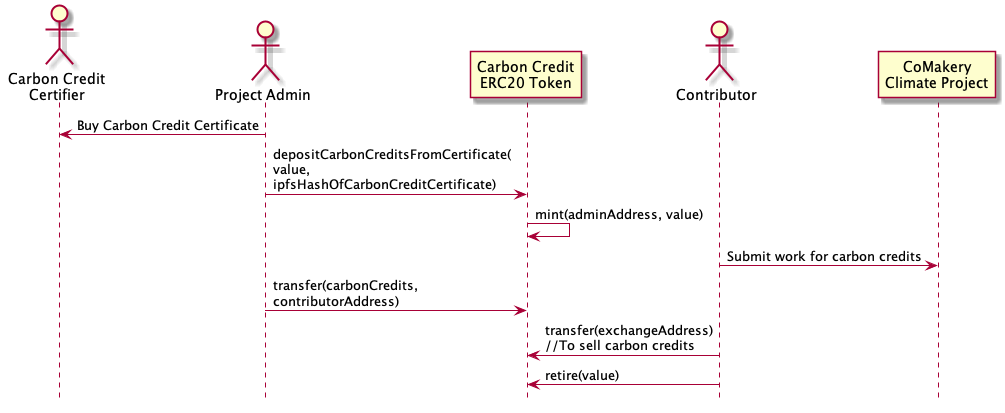
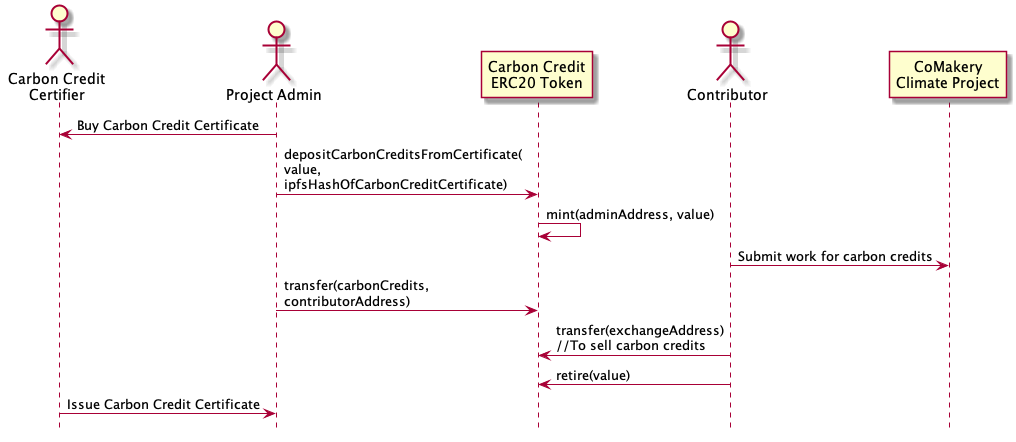
update diagram

diff --git a/README.md b/README.md
@@ -6,7 +6,7 @@ A an ERC20 token backed by carbon credits - allows certified issuance, transfer 
 
 ## How It Works
 
-![](docs/carbon-credits-diagrams/carbon-credits.png)
+![](docs/carbon-credits-diagrams/carbon-credits2.png)
 
 1. The project admin purchases carbon credits from a certifier such as [Gold Standard](https://www.goldstandard.org/)
 1. The project admin upload the certificate purchase details to IPFS and gets the file address called the ipfs Hash
@@ -17,4 +17,4 @@ A an ERC20 token backed by carbon credits - allows certified issuance, transfer 
 1. The contributor transfers some of their tokens to an exchange to sell
 1. The contributor retires the remaining carbon credit tokens to offset some of their own carbon footprint.
 1. The contributor has impacted the climate and a new carbon credit certificate is issued to the Project Admin
-1. The Project Admin deposits the carbon credit certificate in the CoMakery Climate Project and the cycle continue.
+1. The Project Admin deposits the carbon credit certificate in the CoMakery Climate Project and the cycle continues.
